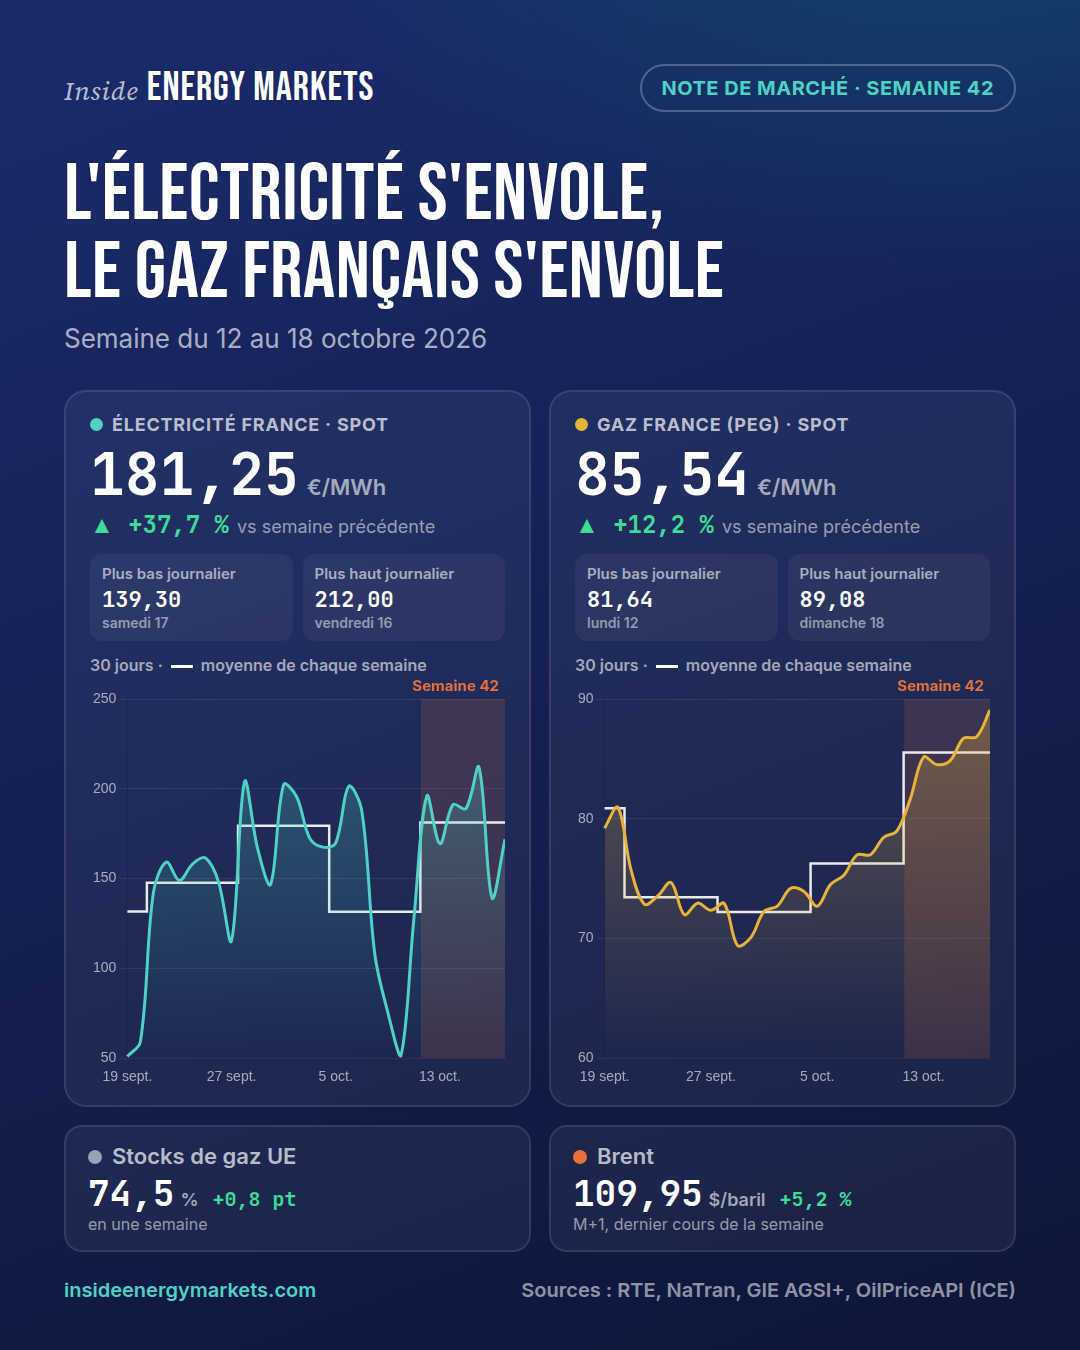
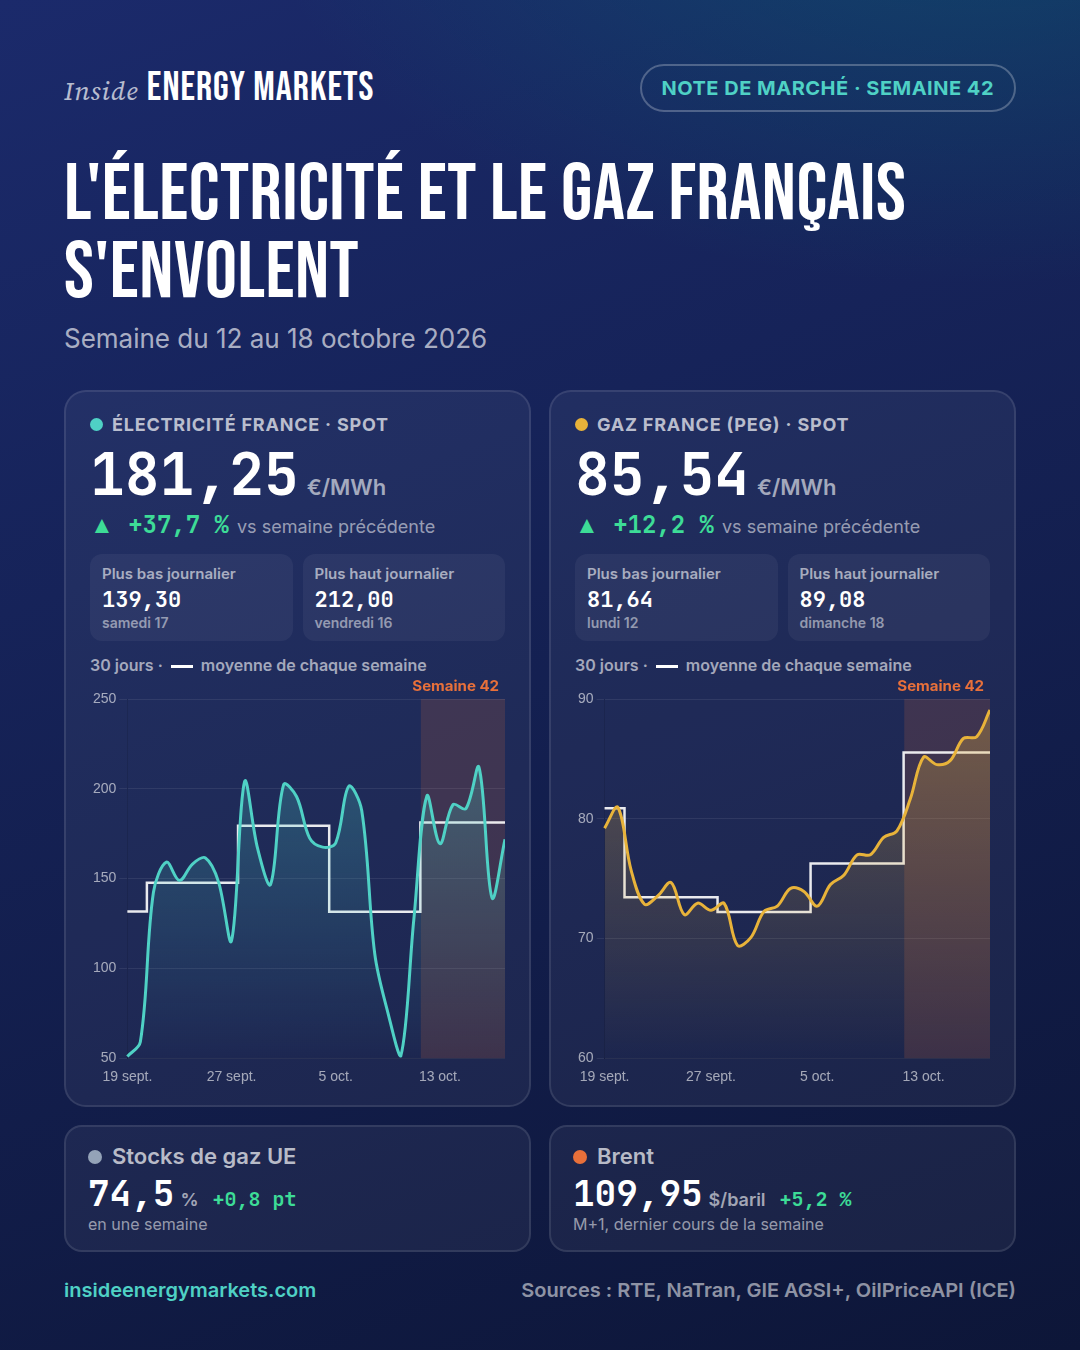
Note de marché hebdomadaire

Changed region(s): [[0.0611, 0.1244, 0.8556, 0.2489]]

diff --git a/_notes/2026-42-fr.md b/_notes/2026-42-fr.md
@@ -2,20 +2,20 @@
 layout: "note"
 lang: "fr"
 ref: "note-2026-42"
-title: "Note de marché, semaine 42 : l'électricité s'envole, le gaz français s'envole"
-description: "Semaine du 12 octobre au 18 octobre 2026 : ce qu'il faut retenir sur l'électricité, le gaz et le pétrole. Semaine marquée par la hausse de l'électricité (+37,7 %) et la hausse du gaz français (+12,2 %). Les stocks de gaz européens abordent l'hiver nettement en dessous de l'an dernier, ce qui rend le marché sensible au froid."
+title: "Note de marché, semaine 42 : l'électricité et le gaz français s'envolent"
+description: "Semaine du 12 octobre au 18 octobre 2026 : ce qu'il faut retenir sur l'électricité, le gaz et le pétrole. Semaine marquée par la hausse de l'électricité (+37,7 %) et du gaz français (+12,2 %). Les stocks de gaz européens abordent l'hiver nettement en dessous de l'an dernier, ce qui rend le marché sensible au froid."
 date: "2026-10-19 00:00:00 +0200"
 permalink: "/analyses/note-de-marche-2026-s42/"
 week: 42
 year: 2026
 period_start: "2026-10-12"
 period_end: "2026-10-18"
-headline: "L'électricité s'envole, le gaz français s'envole"
+headline: "L'électricité et le gaz français s'envolent"
 intro: "Semaine du 12 octobre au 18 octobre 2026 : ce qu'il faut retenir sur l'électricité, le gaz et le pétrole."
 context: [{"title": "Carburants : les Etats membres de l’UE peinent à s’entendre pour faire baisser les prix de l’énergie, un cauchemar pour l’économie européenne", "url": "https://www.lemonde.fr/economie/article/2026/10/16/carburants-les-vingt-sept-peinent-a-s-entendre-pour-faire-baisser-les-prix-de-l-energie-un-cauchemar-pour-l-economie-europeenne_6795109_3234.html", "source": "Le Monde"}, {"title": "Plan électrification : les 17 nouvelles mesures « pour accélérer »", "url": "https://www.connaissancedesenergies.org/plan-electrification-17-nouvelles-mesures-pour-accelerer", "source": "Connaissance des Énergies"}, {"title": "Arabie saoudite : les attaques houthis touchent le géant pétrolier Aramco", "url": "https://www.france24.com/fr/vid%C3%A9o/20261014-arabie-saoudite-les-attaques-houthis-touchent-le-g%C3%A9ant-p%C3%A9trolier-aramco", "source": "France 24"}]
 tiles: [{"key": "power", "label": "Électricité France", "sub": "spot, moyenne de la semaine", "value": "181,25", "unit": " €/MWh", "change": "+37,7 %", "dir": "up", "color": "#4fd1c5", "spark": [50.96, 59.17, 142.3, 159.12, 148.95, 158.11, 161.52, 148.2, 115.41, 203.94, 166.81, 146.81, 202.33, 195.57, 172.52, 167.52, 169.84, 201.37, 187.82, 108.0, 75.56, 51.26, 127.38, 195.97, 169.44, 191.12, 189.02, 212.0, 139.3, 171.88]}, {"key": "gas", "label": "Gaz France (PEG)", "sub": "spot, moyenne de la semaine", "value": "85,54", "unit": " €/MWh", "change": "+12,2 %", "dir": "up", "color": "#e8b33a", "spark": [79.21, 80.95, 75.69, 72.86, 73.55, 74.67, 71.99, 72.95, 72.35, 72.92, 69.42, 70.07, 72.26, 72.71, 74.18, 73.92, 72.7, 74.51, 75.28, 76.98, 76.99, 78.44, 78.99, 81.64, 85.15, 84.52, 84.85, 86.71, 86.85, 89.08]}, {"key": "storage", "label": "Stocks de gaz UE", "sub": "en une semaine", "value": "74,5", "unit": " %", "change": "+0,8 pt", "dir": "up", "color": "#94a3b8", "spark": [61.81, 62.04, 62.32, 62.64, 62.99, 63.28, 63.55, 63.81, 64.09, 64.38, 64.74, 65.1, 65.4, 65.62, 65.83, 66.07, 66.35, 66.59, 66.91, 67.14, 67.35, 67.52, 67.66, 67.78, 68.04, 68.31, 68.5, 68.67, 68.85, 69.06, 69.31, 69.62, 69.95, 70.14, 70.24, 70.35, 70.45, 70.63, 70.89, 71.18, 71.34, 71.55, 71.64, 71.97, 72.15, 72.41, 72.68, 72.84, 72.96, 73.12, 73.3, 73.46, 73.68, 73.87, 73.97, 74.05, 74.14, 74.22, 74.31, 74.47]}, {"key": "oil", "label": "Brent", "sub": "M+1, dernier cours de la semaine", "value": "109,95", "unit": " $/baril", "change": "+5,2 %", "dir": "up", "color": "#e8703a", "spark": [105.99, 105.92, 102.94, 97.57, 102.44, 102.38, 100.24, 101.07, 101.02, 103.74, 104.54, 105.95, 106.16, 106.09, 105.79, 109.95]}]
 sections: [{"key": "power", "title": "Électricité", "icon": "fa-bolt", "emoji": "⚡", "bullets": ["Électricité France (spot day-ahead) : entre 139,30 et 212,00 €/MWh selon les jours, 181,25 €/MWh en moyenne (+37,7 % sur une semaine).", "Journée la plus chère : vendredi 16 ; la moins chère : samedi 17.", "Production de la semaine : nucléaire 71,7 %, renouvelables 21,6 %, gaz 4,2 %."], "chart": {"type": "detail", "title": "Électricité FR", "sub": "Spot day-ahead, moyenne de chaque jour", "unit": "€/MWh", "labels": ["2026-08-20", "2026-08-21", "2026-08-22", "2026-08-23", "2026-08-24", "2026-08-25", "2026-08-26", "2026-08-27", "2026-08-28", "2026-08-29", "2026-08-30", "2026-08-31", "2026-09-01", "2026-09-02", "2026-09-03", "2026-09-04", "2026-09-05", "2026-09-06", "2026-09-07", "2026-09-08", "2026-09-09", "2026-09-10", "2026-09-11", "2026-09-12", "2026-09-13", "2026-09-14", "2026-09-15", "2026-09-16", "2026-09-17", "2026-09-18", "2026-09-19", "2026-09-20", "2026-09-21", "2026-09-22", "2026-09-23", "2026-09-24", "2026-09-25", "2026-09-26", "2026-09-27", "2026-09-28", "2026-09-29", "2026-09-30", "2026-10-01", "2026-10-02", "2026-10-03", "2026-10-04", "2026-10-05", "2026-10-06", "2026-10-07", "2026-10-08", "2026-10-09", "2026-10-10", "2026-10-11", "2026-10-12", "2026-10-13", "2026-10-14", "2026-10-15", "2026-10-16", "2026-10-17", "2026-10-18"], "series": [{"name": "Électricité FR", "color": "#00817d", "data": [143.12, 152.8, 100.62, 76.47, 105.45, 153.92, 159.84, 156.6, 134.28, 65.33, 72.61, 81.84, 148.72, 163.6, 138.34, 110.12, 79.08, 113.02, 163.24, 149.69, 149.47, 172.76, 176.71, 130.85, 129.94, 216.33, 170.63, 178.28, 127.12, 119.74, 50.96, 59.17, 142.3, 159.12, 148.95, 158.11, 161.52, 148.2, 115.41, 203.94, 166.81, 146.81, 202.33, 195.57, 172.52, 167.52, 169.84, 201.37, 187.82, 108.0, 75.56, 51.26, 127.38, 195.97, 169.44, 191.12, 189.02, 212.0, 139.3, 171.88]}, {"name": "Moyenne de la semaine", "color": "#ffffff", "step": true, "data": [118.25, 118.25, 118.25, 118.25, 121.15, 121.15, 121.15, 121.15, 121.15, 121.15, 121.15, 119.25, 119.25, 119.25, 119.25, 119.25, 119.25, 119.25, 153.24, 153.24, 153.24, 153.24, 153.24, 153.24, 153.24, 131.75, 131.75, 131.75, 131.75, 131.75, 131.75, 131.75, 147.66, 147.66, 147.66, 147.66, 147.66, 147.66, 147.66, 179.36, 179.36, 179.36, 179.36, 179.36, 179.36, 179.36, 131.6, 131.6, 131.6, 131.6, 131.6, 131.6, 131.6, 181.25, 181.25, 181.25, 181.25, 181.25, 181.25, 181.25]}], "band": ["2026-10-12", "2026-10-18"], "band_label": "Semaine 42", "stats": [{"label": "Dernier", "value": "171,88", "unit": "€/MWh", "sub": "dimanche 18"}, {"label": "Moyenne vs sem. préc.", "value": "+37,7 %", "unit": "", "sub": "181,25 contre 131,60 €/MWh", "dir": "up"}, {"label": "Plus bas journalier", "value": "139,30", "unit": "€/MWh", "sub": "samedi 17"}, {"label": "Plus haut journalier", "value": "212,00", "unit": "€/MWh", "sub": "vendredi 16"}, {"label": "Moyenne", "value": "181,25", "unit": "€/MWh", "sub": "semaine 42"}]}, "source": "RTE, Energy-Charts (Fraunhofer ISE)"}, {"key": "gas", "title": "Gaz", "icon": "fa-fire-flame-simple", "emoji": "🔥", "bullets": ["Gaz France (PEG, spot) : 85,54 €/MWh en moyenne, contre 76,27 la semaine précédente (+12,2 %), entre 81,64 et 89,08 €/MWh selon les jours.", "Stocks européens : 74,5 % de remplissage (+0,8 point en une semaine), 8,3 points en dessous de l'an dernier.", "France : 87,6 % de remplissage."], "chart": {"type": "detail", "title": "Gaz France (PEG)", "sub": "Spot, prix moyen de chaque journée gazière", "unit": "€/MWh", "labels": ["2026-08-20", "2026-08-21", "2026-08-22", "2026-08-23", "2026-08-24", "2026-08-25", "2026-08-26", "2026-08-27", "2026-08-28", "2026-08-29", "2026-08-30", "2026-08-31", "2026-09-01", "2026-09-02", "2026-09-03", "2026-09-04", "2026-09-05", "2026-09-06", "2026-09-07", "2026-09-08", "2026-09-09", "2026-09-10", "2026-09-11", "2026-09-12", "2026-09-13", "2026-09-14", "2026-09-15", "2026-09-16", "2026-09-17", "2026-09-18", "2026-09-19", "2026-09-20", "2026-09-21", "2026-09-22", "2026-09-23", "2026-09-24", "2026-09-25", "2026-09-26", "2026-09-27", "2026-09-28", "2026-09-29", "2026-09-30", "2026-10-01", "2026-10-02", "2026-10-03", "2026-10-04", "2026-10-05", "2026-10-06", "2026-10-07", "2026-10-08", "2026-10-09", "2026-10-10", "2026-10-11", "2026-10-12", "2026-10-13", "2026-10-14", "2026-10-15", "2026-10-16", "2026-10-17", "2026-10-18"], "series": [{"name": "Gaz France (PEG)", "color": "#e8b33a", "data": [65.28, 66.25, 66.34, 66.02, 67.8, 66.53, 65.27, 67.43, 67.76, 65.36, 66.32, 69.29, 71.71, 73.61, 71.16, 70.7, 77.3, 74.95, 73.75, 75.41, 78.6, 80.18, 80.29, 82.01, 82.13, 84.47, 84.43, 80.21, 78.44, 78.47, 79.21, 80.95, 75.69, 72.86, 73.55, 74.67, 71.99, 72.95, 72.35, 72.92, 69.42, 70.07, 72.26, 72.71, 74.18, 73.92, 72.7, 74.51, 75.28, 76.98, 76.99, 78.44, 78.99, 81.64, 85.15, 84.52, 84.85, 86.71, 86.85, 89.08]}, {"name": "Moyenne de la semaine", "color": "#ffffff", "step": true, "data": [65.97, 65.97, 65.97, 65.97, 66.64, 66.64, 66.64, 66.64, 66.64, 66.64, 66.64, 72.67, 72.67, 72.67, 72.67, 72.67, 72.67, 72.67, 78.91, 78.91, 78.91, 78.91, 78.91, 78.91, 78.91, 80.88, 80.88, 80.88, 80.88, 80.88, 80.88, 80.88, 73.44, 73.44, 73.44, 73.44, 73.44, 73.44, 73.44, 72.21, 72.21, 72.21, 72.21, 72.21, 72.21, 72.21, 76.27, 76.27, 76.27, 76.27, 76.27, 76.27, 76.27, 85.54, 85.54, 85.54, 85.54, 85.54, 85.54, 85.54]}], "band": ["2026-10-12", "2026-10-18"], "band_label": "Semaine 42", "stats": [{"label": "Dernier", "value": "89,08", "unit": "€/MWh", "sub": "dimanche 18"}, {"label": "Moyenne vs sem. préc.", "value": "+12,2 %", "unit": "", "sub": "85,54 contre 76,27 €/MWh", "dir": "up"}, {"label": "Plus bas journalier", "value": "81,64", "unit": "€/MWh", "sub": "lundi 12"}, {"label": "Plus haut journalier", "value": "89,08", "unit": "€/MWh", "sub": "dimanche 18"}, {"label": "Moyenne", "value": "85,54", "unit": "€/MWh", "sub": "semaine 42"}]}, "source": "NaTran (Smart), GIE AGSI+"}, {"key": "oil", "title": "Pétrole et carburants", "icon": "fa-oil-well", "emoji": "🛢", "bullets": ["Brent (contrat à terme ICE M+1) : 109,95 $ le baril au dernier cours de la semaine (+5,2 % sur une semaine), cours de fin de journée entre 105,79 et 109,95 $.", "Stocks de brut américains −8,5 millions de barils, à 415,6 millions.", "À la pompe : gazole 2,368 €/L (+2,2 centimes sur la semaine), SP95-E10 2,175 €/L."], "chart": {"type": "detail", "title": "Brent", "sub": "Contrat à terme ICE M+1 (premier mois)", "unit": "$/b", "labels": ["2026-08-20", "2026-08-21", "2026-08-24", "2026-08-25", "2026-08-26", "2026-08-27", "2026-08-28", "2026-09-01", "2026-09-02", "2026-09-03", "2026-09-04", "2026-09-07", "2026-09-08", "2026-09-09", "2026-09-10", "2026-09-11", "2026-09-14", "2026-09-15", "2026-09-16", "2026-09-17", "2026-09-18", "2026-09-21", "2026-09-22", "2026-09-23", "2026-09-24", "2026-09-25", "2026-09-28", "2026-09-29", "2026-09-30", "2026-10-01", "2026-10-02", "2026-10-05", "2026-10-06", "2026-10-07", "2026-10-08", "2026-10-09", "2026-10-12", "2026-10-13", "2026-10-14", "2026-10-15", "2026-10-16"], "series": [{"name": "Brent, contrat à terme ICE M+1", "color": "#e8703a", "data": [null, null, null, null, null, null, null, null, null, null, null, null, null, null, null, null, null, null, null, null, null, null, null, null, null, 105.99, 105.92, 102.94, 97.57, 102.44, 102.38, 100.24, 101.07, 101.02, 103.74, 104.54, 105.95, 106.16, 106.09, 105.79, 109.95]}, {"name": "Brent spot (EIA), pour contexte", "color": "#e8703a", "dashed": true, "data": [94.0, 96.92, 92.71, 88.24, 87.77, 90.18, 89.75, 96.02, 97.59, 100.52, 102.24, 104.47, 106.12, 109.51, 120.98, 118.06, 121.25, 130.8, 127.84, 121.18, 119.66, 116.15, 114.89, 117.45, 120.92, 116.01, 119.97, 113.96, 115.91, 114.82, 135.51, 125.51, 125.44, 126.0, 130.18, 130.03, 129.95, 125.78, 126.55, null, null]}], "band": ["2026-10-12", "2026-10-18"], "band_label": "Semaine 42", "stats": [{"label": "Dernier", "value": "109,95", "unit": "$/b", "sub": "vendredi 16"}, {"label": "Sur la semaine", "value": "+5,2 %", "unit": "", "sub": "+5,41 $/b", "dir": "up"}, {"label": "Plus bas journalier", "value": "105,79", "unit": "$/b", "sub": "jeudi 15"}, {"label": "Plus haut journalier", "value": "109,95", "unit": "$/b", "sub": "vendredi 16"}, {"label": "Moyenne", "value": "106,79", "unit": "$/b", "sub": "semaine 42"}]}, "source": "OilPriceAPI (ICE), EIA, prix des carburants (data.economie.gouv.fr)"}]
-reading: "Semaine marquée par la hausse de l'électricité (+37,7 %) et la hausse du gaz français (+12,2 %). Les stocks de gaz européens abordent l'hiver nettement en dessous de l'an dernier, ce qui rend le marché sensible au froid."
+reading: "Semaine marquée par la hausse de l'électricité (+37,7 %) et du gaz français (+12,2 %). Les stocks de gaz européens abordent l'hiver nettement en dessous de l'an dernier, ce qui rend le marché sensible au froid."
 image: "/assets/img/notes/2026-42.png"
 ---
 

diff --git a/_notes/2026-42-en.md b/_notes/2026-42-en.md
@@ -2,7 +2,7 @@
 layout: "note"
 lang: "en"
 ref: "note-2026-42"
-title: "Market note, week 42: power prices soar, French gas soars"
+title: "Market note, week 42: power prices and French gas soar"
 description: "Week of 12 October to 18 October 2026: what to remember on electricity, gas and oil. A week marked by a rise in power prices (+37.7%) and a rise in French gas (+12.2%). European gas storage heads into winter well below last year, leaving the market sensitive to cold weather."
 date: "2026-10-19 00:00:00 +0200"
 permalink: "/en/analysis/market-note-2026-w42/"
@@ -10,7 +10,7 @@ week: 42
 year: 2026
 period_start: "2026-10-12"
 period_end: "2026-10-18"
-headline: "Power prices soar, French gas soars"
+headline: "Power prices and French gas soar"
 intro: "Week of 12 October to 18 October 2026: what to remember on electricity, gas and oil."
 context: [{"title": "U.S. small-scale solar generation has quadrupled in the last decade", "url": "https://www.eia.gov/todayinenergy/detail.php?id=68324", "source": "EIA"}, {"title": "Commissioner Jørgensen in Slovakia to discuss energy prices and security with Visegrad Energy Ministers and continue his Affordable Housing Tour", "url": "https://energy.ec.europa.eu/news/commissioner-jorgensen-slovakia-discuss-energy-prices-and-security-visegrad-energy-ministers-and-2026-10-16_en", "source": "European Commission"}, {"title": "Trump calls Ukraine’s renewed strikes on Russian oil refineries ‘a disgrace’", "url": "https://www.theguardian.com/world/2026/oct/16/trump-calls-ukraines-resumption-of-strikes-on-russian-oil-refineries-a-disgrace", "source": "The Guardian"}, {"title": "Mayors meet with EU leaders in Brussels to advance affordable energy and climate resilience", "url": "https://eu-mayors.ec.europa.eu/en/news/mayors-meet-eu-leaders-brussels-advance-affordable-energy-and-climate-resilience", "source": "European Commission"}]
 tiles: [{"key": "power", "label": "French power", "sub": "spot, weekly average", "value": "181.25", "unit": " €/MWh", "change": "+37.7%", "dir": "up", "color": "#4fd1c5", "spark": [50.96, 59.17, 142.3, 159.12, 148.95, 158.11, 161.52, 148.2, 115.41, 203.94, 166.81, 146.81, 202.33, 195.57, 172.52, 167.52, 169.84, 201.37, 187.82, 108.0, 75.56, 51.26, 127.38, 195.97, 169.44, 191.12, 189.02, 212.0, 139.3, 171.88]}, {"key": "gas", "label": "French gas (PEG)", "sub": "spot, weekly average", "value": "85.54", "unit": " €/MWh", "change": "+12.2%", "dir": "up", "color": "#e8b33a", "spark": [79.21, 80.95, 75.69, 72.86, 73.55, 74.67, 71.99, 72.95, 72.35, 72.92, 69.42, 70.07, 72.26, 72.71, 74.18, 73.92, 72.7, 74.51, 75.28, 76.98, 76.99, 78.44, 78.99, 81.64, 85.15, 84.52, 84.85, 86.71, 86.85, 89.08]}, {"key": "storage", "label": "EU gas storage", "sub": "week on week", "value": "74.5", "unit": " %", "change": "+0.8 pt", "dir": "up", "color": "#94a3b8", "spark": [61.81, 62.04, 62.32, 62.64, 62.99, 63.28, 63.55, 63.81, 64.09, 64.38, 64.74, 65.1, 65.4, 65.62, 65.83, 66.07, 66.35, 66.59, 66.91, 67.14, 67.35, 67.52, 67.66, 67.78, 68.04, 68.31, 68.5, 68.67, 68.85, 69.06, 69.31, 69.62, 69.95, 70.14, 70.24, 70.35, 70.45, 70.63, 70.89, 71.18, 71.34, 71.55, 71.64, 71.97, 72.15, 72.41, 72.68, 72.84, 72.96, 73.12, 73.3, 73.46, 73.68, 73.87, 73.97, 74.05, 74.14, 74.22, 74.31, 74.47]}, {"key": "oil", "label": "Brent", "sub": "M+1, last price of the week", "value": "109.95", "unit": " $/bbl", "change": "+5.2%", "dir": "up", "color": "#e8703a", "spark": [105.99, 105.92, 102.94, 97.57, 102.44, 102.38, 100.24, 101.07, 101.02, 103.74, 104.54, 105.95, 106.16, 106.09, 105.79, 109.95]}]
